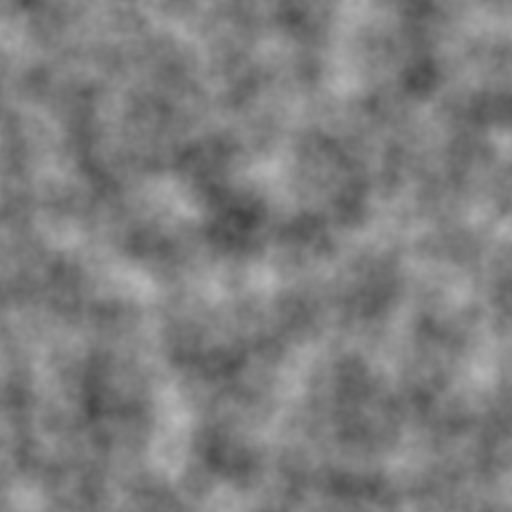
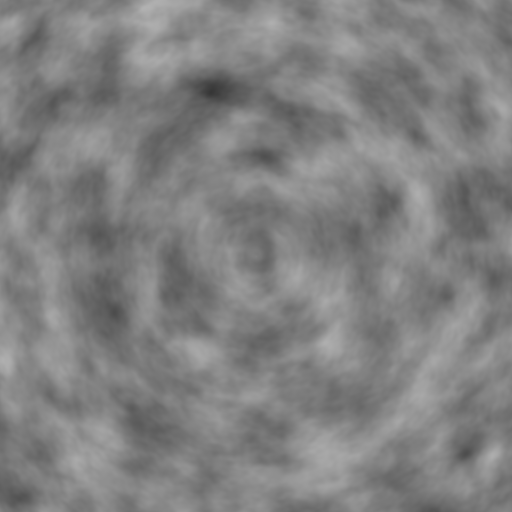
progress

diff --git a/src/lib.rs b/src/lib.rs
@@ -2,6 +2,8 @@ pub mod tools;
 
 pub use crate::tools::*;
 
+use std::cmp::max;
+
 use rand::Rng;
 
 
@@ -15,6 +17,9 @@ pub fn default_layers(depth: u32, falloff: f64) -> Vec<[f64; 2]> {
         .collect::<Vec<[f64; 2]>>();
 }
 
+const PERLIN_NOISE_MAP_VECTOR_MAP_FUNC: fn(Vec<isize>, usize) -> Vec<f64> = |_vec: Vec<isize>, len: usize| -> Vec<f64> { new_rand_vec(len) };
+const PERLIN_NOISE_MAP_CARTESIAN_PRODUCTS_FUNC: fn(usize, ()) -> Vec<Vec<u8>> = |n: usize, _| -> Vec<Vec<u8>> { cartesian_products(n) };
+
 pub struct PerlinNoiseMap {
     vector_map: Cache<Vec<isize>, Vec<f64>, usize>,
     cartesian_products_cache: Cache<usize, Vec<Vec<u8>>, ()>
@@ -23,15 +28,15 @@ pub struct PerlinNoiseMap {
 impl PerlinNoiseMap {
     pub fn new() -> Self {
         return Self {
-            vector_map: Cache::new(|vec: Vec<isize>, len: usize| -> Vec<f64> { new_rand_vec(len) }),
-            cartesian_products_cache: Cache::new(|n: usize, _| -> Vec<Vec<u8>> { cartesian_products(n) })
+            vector_map: Cache::new(PERLIN_NOISE_MAP_VECTOR_MAP_FUNC),
+            cartesian_products_cache: Cache::new(PERLIN_NOISE_MAP_CARTESIAN_PRODUCTS_FUNC)
         };
     }
 
     pub fn with_capacity(capacity: usize) -> Self {
         return Self {
-            vector_map: Cache::with_capacity(|vec: Vec<isize>, len: usize| -> Vec<f64> { new_rand_vec(len) }, capacity),
-            cartesian_products_cache: Cache::new(|n: usize, _| -> Vec<Vec<u8>> { cartesian_products(n) })
+            vector_map: Cache::with_capacity(PERLIN_NOISE_MAP_VECTOR_MAP_FUNC, capacity),
+            cartesian_products_cache: Cache::new(PERLIN_NOISE_MAP_CARTESIAN_PRODUCTS_FUNC)
         };
     }
 
@@ -45,10 +50,8 @@ impl PerlinNoiseMap {
         let reduced_pos = reduce_vec::<isize>(pos.clone());
         let v = self.vector_map.get(reduced_pos, pos.len());
 
-        if v.len() < pos.len() {
-            while v.len() < pos.len() {
-                v.push(rng.random_range(-1.0..1.0));
-            }
+        for _ in 0..(max(pos.len() - v.len(), 0)) {
+            v.push(rng.random_range(-1.0..1.0));
         }
 
         return &*v;
@@ -59,9 +62,6 @@ impl PerlinNoiseMap {
 
         let cpos: Vec<isize> = pos
             .iter()
-            // .map(|n| *n as isize)
-            // .map(|n| if *n < 0.0 { (*n as isize -1) as isize } else { *n as isize })
-            // .map(|n| *n as isize - (*n < 0.0) as isize)
             .map(|n| n.floor() as isize)
             .collect();
 
@@ -102,12 +102,12 @@ impl PerlinNoiseMap {
                     .sum())
             .collect();
 
-        let rpos: Vec<f64> = rpos
+        let fpos: Vec<f64> = rpos
             .iter()
             .map(|n| fade(*n))
             .collect();
 
-        let result = flat_nd_lerp(&rpos, &corners, &values);
+        let result = flat_nd_lerp(&fpos, &corners, &values);
 
         return result;
     }

diff --git a/src/bin/test.rs b/src/bin/test.rs
@@ -6,6 +6,9 @@ use perlin::*;
 const WIDTH: u32 = 512;
 const HEIGHT: u32 = 512;
 
+// const R: f64 = 2f64.sqrt() / 2.0;
+const R: f64 = 1.0;
+
 fn main() {
     let mut noise_map = NoiseMap::new(default_layers(4, 0.5));
 
@@ -14,10 +17,10 @@ fn main() {
     for y in 0..HEIGHT {
         for x in 0..WIDTH {
             let (x_, y_) = (x as f64, y as f64);
-            let (x_, y_) = (x_ - (WIDTH as f64/2 as f64), y_ - (HEIGHT as f64/2 as f64));
-            let s = ((x_ * x_ + y_ * y_) as f64).sqrt() / 300.0;
-            let result = noise_map.get(&vec![x_ as f64 / 64.0, y_ as f64 / 64.0]);
-            let value = ((result + 0.8) / 0.8 / 2.0 * 256.0) as u8;
+            let (x_, y_) = (x_ - (WIDTH as f64/2.0), y_ - (HEIGHT as f64/2.0));
+            let s = (x_ * x_ + y_ * y_).sqrt() / 60.0;
+            let result = noise_map.get(&vec![x_ as f64 / 64.0, y_ as f64 / 64.0, s]);
+            let value = ((result + R) / R / 2.0 * 256.0) as u8;
             img.put_pixel(x, y, Luma([value]));
         }
     }
